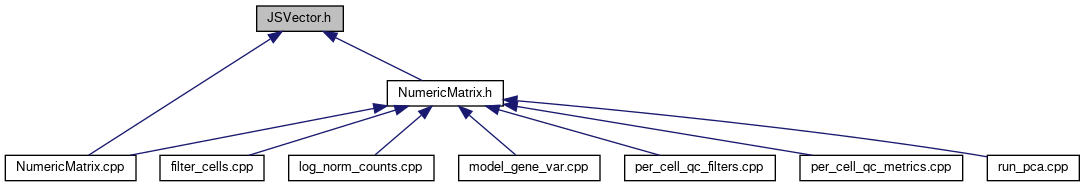
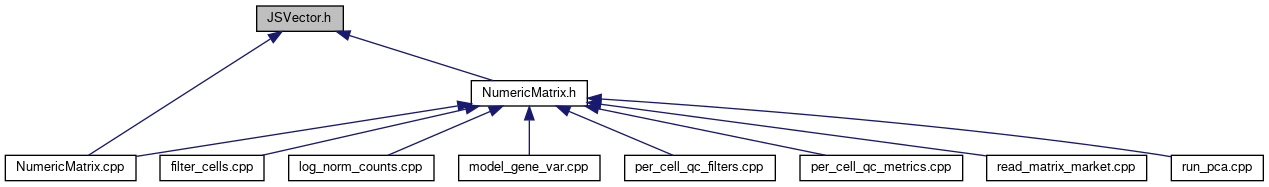
Deploying to gh-pages from @ jkanche/scran.js@00e99483a7babcf50e50a146976a69e1d5e8efdc 🚀

diff --git a/docs/wasm/NumericMatrix_8h_source.html b/docs/wasm/NumericMatrix_8h_source.html
@@ -89,13 +89,16 @@ $(function() {
 <div class="line"><a name="l00058"></a><span class="lineno">   58</span>&#160;    <span class="keywordtype">void</span> <a class="code" href="structNumericMatrix.html#a6f0a43d05259f91bcbe5710ee8151922">column</a>(<span class="keywordtype">int</span> c, uintptr_t values);</div>
 <div class="line"><a name="l00059"></a><span class="lineno">   59</span>&#160; </div>
 <div class="line"><a name="l00063"></a><span class="lineno"><a class="line" href="structNumericMatrix.html#af05a5782bb8e5a7b083a156cea46df92">   63</a></span>&#160;    std::shared_ptr&lt;const tatami::NumericMatrix&gt; <a class="code" href="structNumericMatrix.html#af05a5782bb8e5a7b083a156cea46df92">ptr</a>;</div>
-<div class="line"><a name="l00064"></a><span class="lineno">   64</span>&#160;};</div>
-<div class="line"><a name="l00065"></a><span class="lineno">   65</span>&#160; </div>
-<div class="line"><a name="l00066"></a><span class="lineno">   66</span>&#160;<span class="preprocessor">#endif</span></div>
+<div class="line"><a name="l00064"></a><span class="lineno">   64</span>&#160; </div>
+<div class="line"><a name="l00070"></a><span class="lineno"><a class="line" href="structNumericMatrix.html#aa60f1d60eacd5361dbec67975f4f259d">   70</a></span>&#160;    std::vector&lt;size_t&gt; <a class="code" href="structNumericMatrix.html#aa60f1d60eacd5361dbec67975f4f259d">permutation</a>;</div>
+<div class="line"><a name="l00071"></a><span class="lineno">   71</span>&#160;};</div>
+<div class="line"><a name="l00072"></a><span class="lineno">   72</span>&#160; </div>
+<div class="line"><a name="l00073"></a><span class="lineno">   73</span>&#160;<span class="preprocessor">#endif</span></div>
 <div class="ttc" id="aJSVector_8h_html"><div class="ttname"><a href="JSVector_8h.html">JSVector.h</a></div></div>
 <div class="ttc" id="astructNumericMatrix_html"><div class="ttname"><a href="structNumericMatrix.html">NumericMatrix</a></div><div class="ttdoc">A numeric matrix that stores conceptual doubles.</div><div class="ttdef"><b>Definition:</b> NumericMatrix.h:12</div></div>
 <div class="ttc" id="astructNumericMatrix_html_a428afa5858a25c1c6b8861900e0dad7b"><div class="ttname"><a href="structNumericMatrix.html#a428afa5858a25c1c6b8861900e0dad7b">NumericMatrix::row</a></div><div class="ttdeci">void row(int r, uintptr_t values)</div><div class="ttdef"><b>Definition:</b> NumericMatrix.cpp:23</div></div>
 <div class="ttc" id="astructNumericMatrix_html_a6f0a43d05259f91bcbe5710ee8151922"><div class="ttname"><a href="structNumericMatrix.html#a6f0a43d05259f91bcbe5710ee8151922">NumericMatrix::column</a></div><div class="ttdeci">void column(int c, uintptr_t values)</div><div class="ttdef"><b>Definition:</b> NumericMatrix.cpp:32</div></div>
+<div class="ttc" id="astructNumericMatrix_html_aa60f1d60eacd5361dbec67975f4f259d"><div class="ttname"><a href="structNumericMatrix.html#aa60f1d60eacd5361dbec67975f4f259d">NumericMatrix::permutation</a></div><div class="ttdeci">std::vector&lt; size_t &gt; permutation</div><div class="ttdef"><b>Definition:</b> NumericMatrix.h:70</div></div>
 <div class="ttc" id="astructNumericMatrix_html_aca9949603c5969178a3d43eb1a352f63"><div class="ttname"><a href="structNumericMatrix.html#aca9949603c5969178a3d43eb1a352f63">NumericMatrix::nrow</a></div><div class="ttdeci">int nrow() const</div><div class="ttdef"><b>Definition:</b> NumericMatrix.cpp:15</div></div>
 <div class="ttc" id="astructNumericMatrix_html_ad21bf001b87002dcb346d9fcdd4e8a60"><div class="ttname"><a href="structNumericMatrix.html#ad21bf001b87002dcb346d9fcdd4e8a60">NumericMatrix::ncol</a></div><div class="ttdeci">int ncol() const</div><div class="ttdef"><b>Definition:</b> NumericMatrix.cpp:19</div></div>
 <div class="ttc" id="astructNumericMatrix_html_ad2a44d614c57a6bf2a3e400167ebb3e8"><div class="ttname"><a href="structNumericMatrix.html#ad2a44d614c57a6bf2a3e400167ebb3e8">NumericMatrix::NumericMatrix</a></div><div class="ttdeci">NumericMatrix(const tatami::NumericMatrix *p)</div><div class="ttdef"><b>Definition:</b> NumericMatrix.cpp:5</div></div>

diff --git a/docs/wasm/read__matrix__market_8cpp.html b/docs/wasm/read__matrix__market_8cpp.html
@@ -5,7 +5,7 @@
 <meta http-equiv="X-UA-Compatible" content="IE=9"/>
 <meta name="generator" content="Doxygen 1.9.1"/>
 <meta name="viewport" content="width=device-width, initial-scale=1"/>
-<title>scran.js: Class Members - Variables</title>
+<title>scran.js: read_matrix_market.cpp File Reference</title>
 <link href="tabs.css" rel="stylesheet" type="text/css"/>
 <script type="text/javascript" src="jquery.js"></script>
 <script type="text/javascript" src="dynsections.js"></script>
@@ -47,7 +47,6 @@ $(function() {
 });
 /* @license-end */</script>
 <div id="main-nav"></div>
-</div><!-- top -->
 <!-- window showing the filter options -->
 <div id="MSearchSelectWindow"
      onmouseover="return searchBox.OnSearchSelectShow()"
@@ -62,15 +61,58 @@ $(function() {
 </iframe>
 </div>
 
+</div><!-- top -->
+<div class="header">
+  <div class="summary">
+<a href="#func-members">Functions</a>  </div>
+  <div class="headertitle">
+<div class="title">read_matrix_market.cpp File Reference</div>  </div>
+</div><!--header-->
 <div class="contents">
-&#160;<ul>
-<li>permutation
-: <a class="el" href="structNumericMatrix.html#aa60f1d60eacd5361dbec67975f4f259d">NumericMatrix</a>
-</li>
-<li>ptr
-: <a class="el" href="structNumericMatrix.html#af05a5782bb8e5a7b083a156cea46df92">NumericMatrix</a>
-</li>
-</ul>
+<div class="textblock"><code>#include &lt;emscripten/bind.h&gt;</code><br />
+<code>#include &quot;<a class="el" href="NumericMatrix_8h_source.html">NumericMatrix.h</a>&quot;</code><br />
+<code>#include &quot;tatami/ext/MatrixMarket.hpp&quot;</code><br />
+<code>#include &lt;string&gt;</code><br />
+</div><div class="textblock"><div class="dynheader">
+Include dependency graph for read_matrix_market.cpp:</div>
+<div class="dyncontent">
+<div class="center"><img src="read__matrix__market_8cpp__incl.png" border="0" usemap="#aread__matrix__market_8cpp" alt=""/></div>
+<map name="aread__matrix__market_8cpp" id="aread__matrix__market_8cpp">
+<area shape="rect" title=" " alt="" coords="218,5,378,32"/>
+<area shape="rect" title=" " alt="" coords="5,80,129,107"/>
+<area shape="rect" href="NumericMatrix_8h.html" title=" " alt="" coords="153,80,269,107"/>
+<area shape="rect" title=" " alt="" coords="293,80,476,107"/>
+<area shape="rect" title=" " alt="" coords="500,80,555,107"/>
+<area shape="rect" href="JSVector_8h.html" title=" " alt="" coords="107,155,193,181"/>
+<area shape="rect" title=" " alt="" coords="217,155,325,181"/>
+<area shape="rect" title=" " alt="" coords="117,229,183,256"/>
+</map>
+</div>
+</div><table class="memberdecls">
+<tr class="heading"><td colspan="2"><h2 class="groupheader"><a name="func-members"></a>
+Functions</h2></td></tr>
+<tr class="memitem:ab39543e423453a4fe30b3c4051312c58"><td class="memItemLeft" align="right" valign="top"><a class="el" href="structNumericMatrix.html">NumericMatrix</a>&#160;</td><td class="memItemRight" valign="bottom"><a class="el" href="read__matrix__market_8cpp.html#ab39543e423453a4fe30b3c4051312c58">read_matrix_market</a> (std::string input)</td></tr>
+<tr class="separator:ab39543e423453a4fe30b3c4051312c58"><td class="memSeparator" colspan="2">&#160;</td></tr>
+</table>
+<h2 class="groupheader">Function Documentation</h2>
+<a id="ab39543e423453a4fe30b3c4051312c58"></a>
+<h2 class="memtitle"><span class="permalink"><a href="#ab39543e423453a4fe30b3c4051312c58">&#9670;&nbsp;</a></span>read_matrix_market()</h2>
+
+<div class="memitem">
+<div class="memproto">
+      <table class="memname">
+        <tr>
+          <td class="memname"><a class="el" href="structNumericMatrix.html">NumericMatrix</a> read_matrix_market </td>
+          <td>(</td>
+          <td class="paramtype">std::string&#160;</td>
+          <td class="paramname"><em>input</em></td><td>)</td>
+          <td></td>
+        </tr>
+      </table>
+</div><div class="memdoc">
+
+</div>
+</div>
 </div><!-- contents -->
 <!-- start footer part -->
 <hr class="footer"/><address class="footer"><small>

diff --git a/docs/wasm/structNumericMatrix-members.html b/docs/wasm/structNumericMatrix-members.html
@@ -76,8 +76,9 @@ $(function() {
   <tr><td class="entry"><a class="el" href="structNumericMatrix.html#ad2a44d614c57a6bf2a3e400167ebb3e8">NumericMatrix</a>(const tatami::NumericMatrix *p)</td><td class="entry"><a class="el" href="structNumericMatrix.html">NumericMatrix</a></td><td class="entry"></td></tr>
   <tr class="even"><td class="entry"><a class="el" href="structNumericMatrix.html#a03837f6ccdc2da8a2caa7e2772a2a0fd">NumericMatrix</a>(std::shared_ptr&lt; const tatami::NumericMatrix &gt; p)</td><td class="entry"><a class="el" href="structNumericMatrix.html">NumericMatrix</a></td><td class="entry"></td></tr>
   <tr><td class="entry"><a class="el" href="structNumericMatrix.html#af316832630f2a6bd5bd815ffce78018c">NumericMatrix</a>(int nr, int nc, uintptr_t values)</td><td class="entry"><a class="el" href="structNumericMatrix.html">NumericMatrix</a></td><td class="entry"></td></tr>
-  <tr class="even"><td class="entry"><a class="el" href="structNumericMatrix.html#af05a5782bb8e5a7b083a156cea46df92">ptr</a></td><td class="entry"><a class="el" href="structNumericMatrix.html">NumericMatrix</a></td><td class="entry"></td></tr>
-  <tr><td class="entry"><a class="el" href="structNumericMatrix.html#a428afa5858a25c1c6b8861900e0dad7b">row</a>(int r, uintptr_t values)</td><td class="entry"><a class="el" href="structNumericMatrix.html">NumericMatrix</a></td><td class="entry"></td></tr>
+  <tr class="even"><td class="entry"><a class="el" href="structNumericMatrix.html#aa60f1d60eacd5361dbec67975f4f259d">permutation</a></td><td class="entry"><a class="el" href="structNumericMatrix.html">NumericMatrix</a></td><td class="entry"></td></tr>
+  <tr><td class="entry"><a class="el" href="structNumericMatrix.html#af05a5782bb8e5a7b083a156cea46df92">ptr</a></td><td class="entry"><a class="el" href="structNumericMatrix.html">NumericMatrix</a></td><td class="entry"></td></tr>
+  <tr class="even"><td class="entry"><a class="el" href="structNumericMatrix.html#a428afa5858a25c1c6b8861900e0dad7b">row</a>(int r, uintptr_t values)</td><td class="entry"><a class="el" href="structNumericMatrix.html">NumericMatrix</a></td><td class="entry"></td></tr>
 </table></div><!-- contents -->
 <!-- start footer part -->
 <hr class="footer"/><address class="footer"><small>

diff --git a/docs/wasm/files.html b/docs/wasm/files.html
@@ -77,8 +77,9 @@ $(function() {
 <tr id="row_5_"><td class="entry"><span style="width:16px;display:inline-block;">&#160;</span><a href="NumericMatrix_8h_source.html"><span class="icondoc"></span></a><a class="el" href="NumericMatrix_8h.html" target="_self">NumericMatrix.h</a></td><td class="desc"></td></tr>
 <tr id="row_6_" class="even"><td class="entry"><span style="width:16px;display:inline-block;">&#160;</span><span class="icondoc"></span><a class="el" href="per__cell__qc__filters_8cpp.html" target="_self">per_cell_qc_filters.cpp</a></td><td class="desc"></td></tr>
 <tr id="row_7_"><td class="entry"><span style="width:16px;display:inline-block;">&#160;</span><span class="icondoc"></span><a class="el" href="per__cell__qc__metrics_8cpp.html" target="_self">per_cell_qc_metrics.cpp</a></td><td class="desc"></td></tr>
-<tr id="row_8_" class="even"><td class="entry"><span style="width:16px;display:inline-block;">&#160;</span><span class="icondoc"></span><a class="el" href="run__pca_8cpp.html" target="_self">run_pca.cpp</a></td><td class="desc"></td></tr>
-<tr id="row_9_"><td class="entry"><span style="width:16px;display:inline-block;">&#160;</span><a href="utils_8h_source.html"><span class="icondoc"></span></a><a class="el" href="utils_8h.html" target="_self">utils.h</a></td><td class="desc"></td></tr>
+<tr id="row_8_" class="even"><td class="entry"><span style="width:16px;display:inline-block;">&#160;</span><span class="icondoc"></span><a class="el" href="read__matrix__market_8cpp.html" target="_self">read_matrix_market.cpp</a></td><td class="desc"></td></tr>
+<tr id="row_9_"><td class="entry"><span style="width:16px;display:inline-block;">&#160;</span><span class="icondoc"></span><a class="el" href="run__pca_8cpp.html" target="_self">run_pca.cpp</a></td><td class="desc"></td></tr>
+<tr id="row_10_" class="even"><td class="entry"><span style="width:16px;display:inline-block;">&#160;</span><a href="utils_8h_source.html"><span class="icondoc"></span></a><a class="el" href="utils_8h.html" target="_self">utils.h</a></td><td class="desc"></td></tr>
 </table>
 </div><!-- directory -->
 </div><!-- contents -->

diff --git a/docs/wasm/structNumericMatrix.html b/docs/wasm/structNumericMatrix.html
@@ -98,6 +98,8 @@ Public Member Functions</h2></td></tr>
 Public Attributes</h2></td></tr>
 <tr class="memitem:af05a5782bb8e5a7b083a156cea46df92"><td class="memItemLeft" align="right" valign="top">std::shared_ptr&lt; const tatami::NumericMatrix &gt;&#160;</td><td class="memItemRight" valign="bottom"><a class="el" href="structNumericMatrix.html#af05a5782bb8e5a7b083a156cea46df92">ptr</a></td></tr>
 <tr class="separator:af05a5782bb8e5a7b083a156cea46df92"><td class="memSeparator" colspan="2">&#160;</td></tr>
+<tr class="memitem:aa60f1d60eacd5361dbec67975f4f259d"><td class="memItemLeft" align="right" valign="top">std::vector&lt; size_t &gt;&#160;</td><td class="memItemRight" valign="bottom"><a class="el" href="structNumericMatrix.html#aa60f1d60eacd5361dbec67975f4f259d">permutation</a></td></tr>
+<tr class="separator:aa60f1d60eacd5361dbec67975f4f259d"><td class="memSeparator" colspan="2">&#160;</td></tr>
 </table>
 <a name="details" id="details"></a><h2 class="groupheader">Detailed Description</h2>
 <div class="textblock"><p>A numeric matrix that stores conceptual <code>double</code>s. </p>
@@ -306,6 +308,21 @@ Public Attributes</h2></td></tr>
 </div>
 </div>
 <h2 class="groupheader">Member Data Documentation</h2>
+<a id="aa60f1d60eacd5361dbec67975f4f259d"></a>
+<h2 class="memtitle"><span class="permalink"><a href="#aa60f1d60eacd5361dbec67975f4f259d">&#9670;&nbsp;</a></span>permutation</h2>
+
+<div class="memitem">
+<div class="memproto">
+      <table class="memname">
+        <tr>
+          <td class="memname">std::vector&lt;size_t&gt; NumericMatrix::permutation</td>
+        </tr>
+      </table>
+</div><div class="memdoc">
+<p>A permutation vector, indicating how rows were shuffled to enable a more memory-efficient storage format. If the current matrix is <code>X</code>, the original matrix would have been obtained as <code>X[permutation,]</code>. If empty, no shuffling was performed. </p>
+
+</div>
+</div>
 <a id="af05a5782bb8e5a7b083a156cea46df92"></a>
 <h2 class="memtitle"><span class="permalink"><a href="#af05a5782bb8e5a7b083a156cea46df92">&#9670;&nbsp;</a></span>ptr</h2>
 

diff --git a/docs/wasm/search/functions_8.js b/docs/wasm/search/functions_8.js
@@ -1,6 +1,6 @@
 var searchData=
 [
-  ['ncol_52',['ncol',['../structNumericMatrix.html#ad21bf001b87002dcb346d9fcdd4e8a60',1,'NumericMatrix']]],
-  ['nrow_53',['nrow',['../structNumericMatrix.html#aca9949603c5969178a3d43eb1a352f63',1,'NumericMatrix']]],
-  ['numericmatrix_54',['NumericMatrix',['../structNumericMatrix.html#ad2a44d614c57a6bf2a3e400167ebb3e8',1,'NumericMatrix::NumericMatrix(const tatami::NumericMatrix *p)'],['../structNumericMatrix.html#a03837f6ccdc2da8a2caa7e2772a2a0fd',1,'NumericMatrix::NumericMatrix(std::shared_ptr&lt; const tatami::NumericMatrix &gt; p)'],['../structNumericMatrix.html#af316832630f2a6bd5bd815ffce78018c',1,'NumericMatrix::NumericMatrix(int nr, int nc, uintptr_t values)']]]
+  ['ncol_56',['ncol',['../structNumericMatrix.html#ad21bf001b87002dcb346d9fcdd4e8a60',1,'NumericMatrix']]],
+  ['nrow_57',['nrow',['../structNumericMatrix.html#aca9949603c5969178a3d43eb1a352f63',1,'NumericMatrix']]],
+  ['numericmatrix_58',['NumericMatrix',['../structNumericMatrix.html#ad2a44d614c57a6bf2a3e400167ebb3e8',1,'NumericMatrix::NumericMatrix(const tatami::NumericMatrix *p)'],['../structNumericMatrix.html#a03837f6ccdc2da8a2caa7e2772a2a0fd',1,'NumericMatrix::NumericMatrix(std::shared_ptr&lt; const tatami::NumericMatrix &gt; p)'],['../structNumericMatrix.html#af316832630f2a6bd5bd815ffce78018c',1,'NumericMatrix::NumericMatrix(int nr, int nc, uintptr_t values)']]]
 ];

diff --git a/docs/wasm/NumericMatrix_8h.html b/docs/wasm/NumericMatrix_8h.html
@@ -87,14 +87,15 @@ This graph shows which files directly or indirectly include this file:</div>
 <div class="dyncontent">
 <div class="center"><img src="NumericMatrix_8h__dep__incl.png" border="0" usemap="#aNumericMatrix_8hdep" alt=""/></div>
 <map name="aNumericMatrix_8hdep" id="aNumericMatrix_8hdep">
-<area shape="rect" title=" " alt="" coords="477,5,593,32"/>
+<area shape="rect" title=" " alt="" coords="559,5,675,32"/>
 <area shape="rect" href="filter__cells_8cpp.html" title=" " alt="" coords="5,80,109,107"/>
 <area shape="rect" href="log__norm__counts_8cpp.html" title=" " alt="" coords="134,80,279,107"/>
 <area shape="rect" href="model__gene__var_8cpp.html" title=" " alt="" coords="304,80,445,107"/>
 <area shape="rect" href="NumericMatrix_8cpp.html" title=" " alt="" coords="469,80,600,107"/>
 <area shape="rect" href="per__cell__qc__filters_8cpp.html" title=" " alt="" coords="625,80,775,107"/>
 <area shape="rect" href="per__cell__qc__metrics_8cpp.html" title=" " alt="" coords="800,80,963,107"/>
-<area shape="rect" href="run__pca_8cpp.html" title=" " alt="" coords="987,80,1079,107"/>
+<area shape="rect" href="read__matrix__market_8cpp.html" title=" " alt="" coords="987,80,1147,107"/>
+<area shape="rect" href="run__pca_8cpp.html" title=" " alt="" coords="1171,80,1263,107"/>
 </map>
 </div>
 </div>

diff --git a/docs/wasm/JSVector_8h.html b/docs/wasm/JSVector_8h.html
@@ -86,13 +86,14 @@ This graph shows which files directly or indirectly include this file:</div>
 <map name="aJSVector_8hdep" id="aJSVector_8hdep">
 <area shape="rect" title=" " alt="" coords="257,5,343,32"/>
 <area shape="rect" href="NumericMatrix_8cpp.html" title=" " alt="" coords="5,155,136,181"/>
-<area shape="rect" href="NumericMatrix_8h.html" title=" " alt="" coords="387,80,503,107"/>
+<area shape="rect" href="NumericMatrix_8h.html" title=" " alt="" coords="471,80,587,107"/>
 <area shape="rect" href="filter__cells_8cpp.html" title=" " alt="" coords="160,155,264,181"/>
 <area shape="rect" href="log__norm__counts_8cpp.html" title=" " alt="" coords="289,155,434,181"/>
 <area shape="rect" href="model__gene__var_8cpp.html" title=" " alt="" coords="459,155,600,181"/>
 <area shape="rect" href="per__cell__qc__filters_8cpp.html" title=" " alt="" coords="625,155,775,181"/>
 <area shape="rect" href="per__cell__qc__metrics_8cpp.html" title=" " alt="" coords="800,155,963,181"/>
-<area shape="rect" href="run__pca_8cpp.html" title=" " alt="" coords="987,155,1079,181"/>
+<area shape="rect" href="read__matrix__market_8cpp.html" title=" " alt="" coords="987,155,1147,181"/>
+<area shape="rect" href="run__pca_8cpp.html" title=" " alt="" coords="1171,155,1263,181"/>
 </map>
 </div>
 </div>

diff --git a/docs/wasm/search/all_a.js b/docs/wasm/search/all_a.js
@@ -1,7 +1,9 @@
 var searchData=
 [
-  ['readme_2emd_23',['README.md',['../README_8md.html',1,'']]],
-  ['row_24',['row',['../structNumericMatrix.html#a428afa5858a25c1c6b8861900e0dad7b',1,'NumericMatrix']]],
-  ['run_5fpca_25',['run_pca',['../run__pca_8cpp.html#a621610cf19d42bda18cb5f2ca9c42c54',1,'run_pca.cpp']]],
-  ['run_5fpca_2ecpp_26',['run_pca.cpp',['../run__pca_8cpp.html',1,'']]]
+  ['read_5fmatrix_5fmarket_24',['read_matrix_market',['../read__matrix__market_8cpp.html#ab39543e423453a4fe30b3c4051312c58',1,'read_matrix_market.cpp']]],
+  ['read_5fmatrix_5fmarket_2ecpp_25',['read_matrix_market.cpp',['../read__matrix__market_8cpp.html',1,'']]],
+  ['readme_2emd_26',['README.md',['../README_8md.html',1,'']]],
+  ['row_27',['row',['../structNumericMatrix.html#a428afa5858a25c1c6b8861900e0dad7b',1,'NumericMatrix']]],
+  ['run_5fpca_28',['run_pca',['../run__pca_8cpp.html#a621610cf19d42bda18cb5f2ca9c42c54',1,'run_pca.cpp']]],
+  ['run_5fpca_2ecpp_29',['run_pca.cpp',['../run__pca_8cpp.html',1,'']]]
 ];

diff --git a/docs/wasm/search/all_9.js b/docs/wasm/search/all_9.js
@@ -4,5 +4,6 @@ var searchData=
   ['per_5fcell_5fqc_5ffilters_2ecpp_19',['per_cell_qc_filters.cpp',['../per__cell__qc__filters_8cpp.html',1,'']]],
   ['per_5fcell_5fqc_5fmetrics_20',['per_cell_qc_metrics',['../per__cell__qc__metrics_8cpp.html#a41e250b8bea6e044ffedb689c0304d3e',1,'per_cell_qc_metrics.cpp']]],
   ['per_5fcell_5fqc_5fmetrics_2ecpp_21',['per_cell_qc_metrics.cpp',['../per__cell__qc__metrics_8cpp.html',1,'']]],
-  ['ptr_22',['ptr',['../structNumericMatrix.html#af05a5782bb8e5a7b083a156cea46df92',1,'NumericMatrix']]]
+  ['permutation_22',['permutation',['../structNumericMatrix.html#aa60f1d60eacd5361dbec67975f4f259d',1,'NumericMatrix']]],
+  ['ptr_23',['ptr',['../structNumericMatrix.html#af05a5782bb8e5a7b083a156cea46df92',1,'NumericMatrix']]]
 ];

diff --git a/docs/wasm/search/functions_9.js b/docs/wasm/search/functions_9.js
@@ -1,5 +1,5 @@
 var searchData=
 [
-  ['per_5fcell_5fqc_5ffilters_55',['per_cell_qc_filters',['../per__cell__qc__filters_8cpp.html#a9b2c265d22a1bb9c2ed43fdfc737b92d',1,'per_cell_qc_filters.cpp']]],
-  ['per_5fcell_5fqc_5fmetrics_56',['per_cell_qc_metrics',['../per__cell__qc__metrics_8cpp.html#a41e250b8bea6e044ffedb689c0304d3e',1,'per_cell_qc_metrics.cpp']]]
+  ['per_5fcell_5fqc_5ffilters_59',['per_cell_qc_filters',['../per__cell__qc__filters_8cpp.html#a9b2c265d22a1bb9c2ed43fdfc737b92d',1,'per_cell_qc_filters.cpp']]],
+  ['per_5fcell_5fqc_5fmetrics_60',['per_cell_qc_metrics',['../per__cell__qc__metrics_8cpp.html#a41e250b8bea6e044ffedb689c0304d3e',1,'per_cell_qc_metrics.cpp']]]
 ];

diff --git a/docs/wasm/search/functions_a.js b/docs/wasm/search/functions_a.js
@@ -1,5 +1,6 @@
 var searchData=
 [
-  ['row_57',['row',['../structNumericMatrix.html#a428afa5858a25c1c6b8861900e0dad7b',1,'NumericMatrix']]],
-  ['run_5fpca_58',['run_pca',['../run__pca_8cpp.html#a621610cf19d42bda18cb5f2ca9c42c54',1,'run_pca.cpp']]]
+  ['read_5fmatrix_5fmarket_61',['read_matrix_market',['../read__matrix__market_8cpp.html#ab39543e423453a4fe30b3c4051312c58',1,'read_matrix_market.cpp']]],
+  ['row_62',['row',['../structNumericMatrix.html#a428afa5858a25c1c6b8861900e0dad7b',1,'NumericMatrix']]],
+  ['run_5fpca_63',['run_pca',['../run__pca_8cpp.html#a621610cf19d42bda18cb5f2ca9c42c54',1,'run_pca.cpp']]]
 ];
